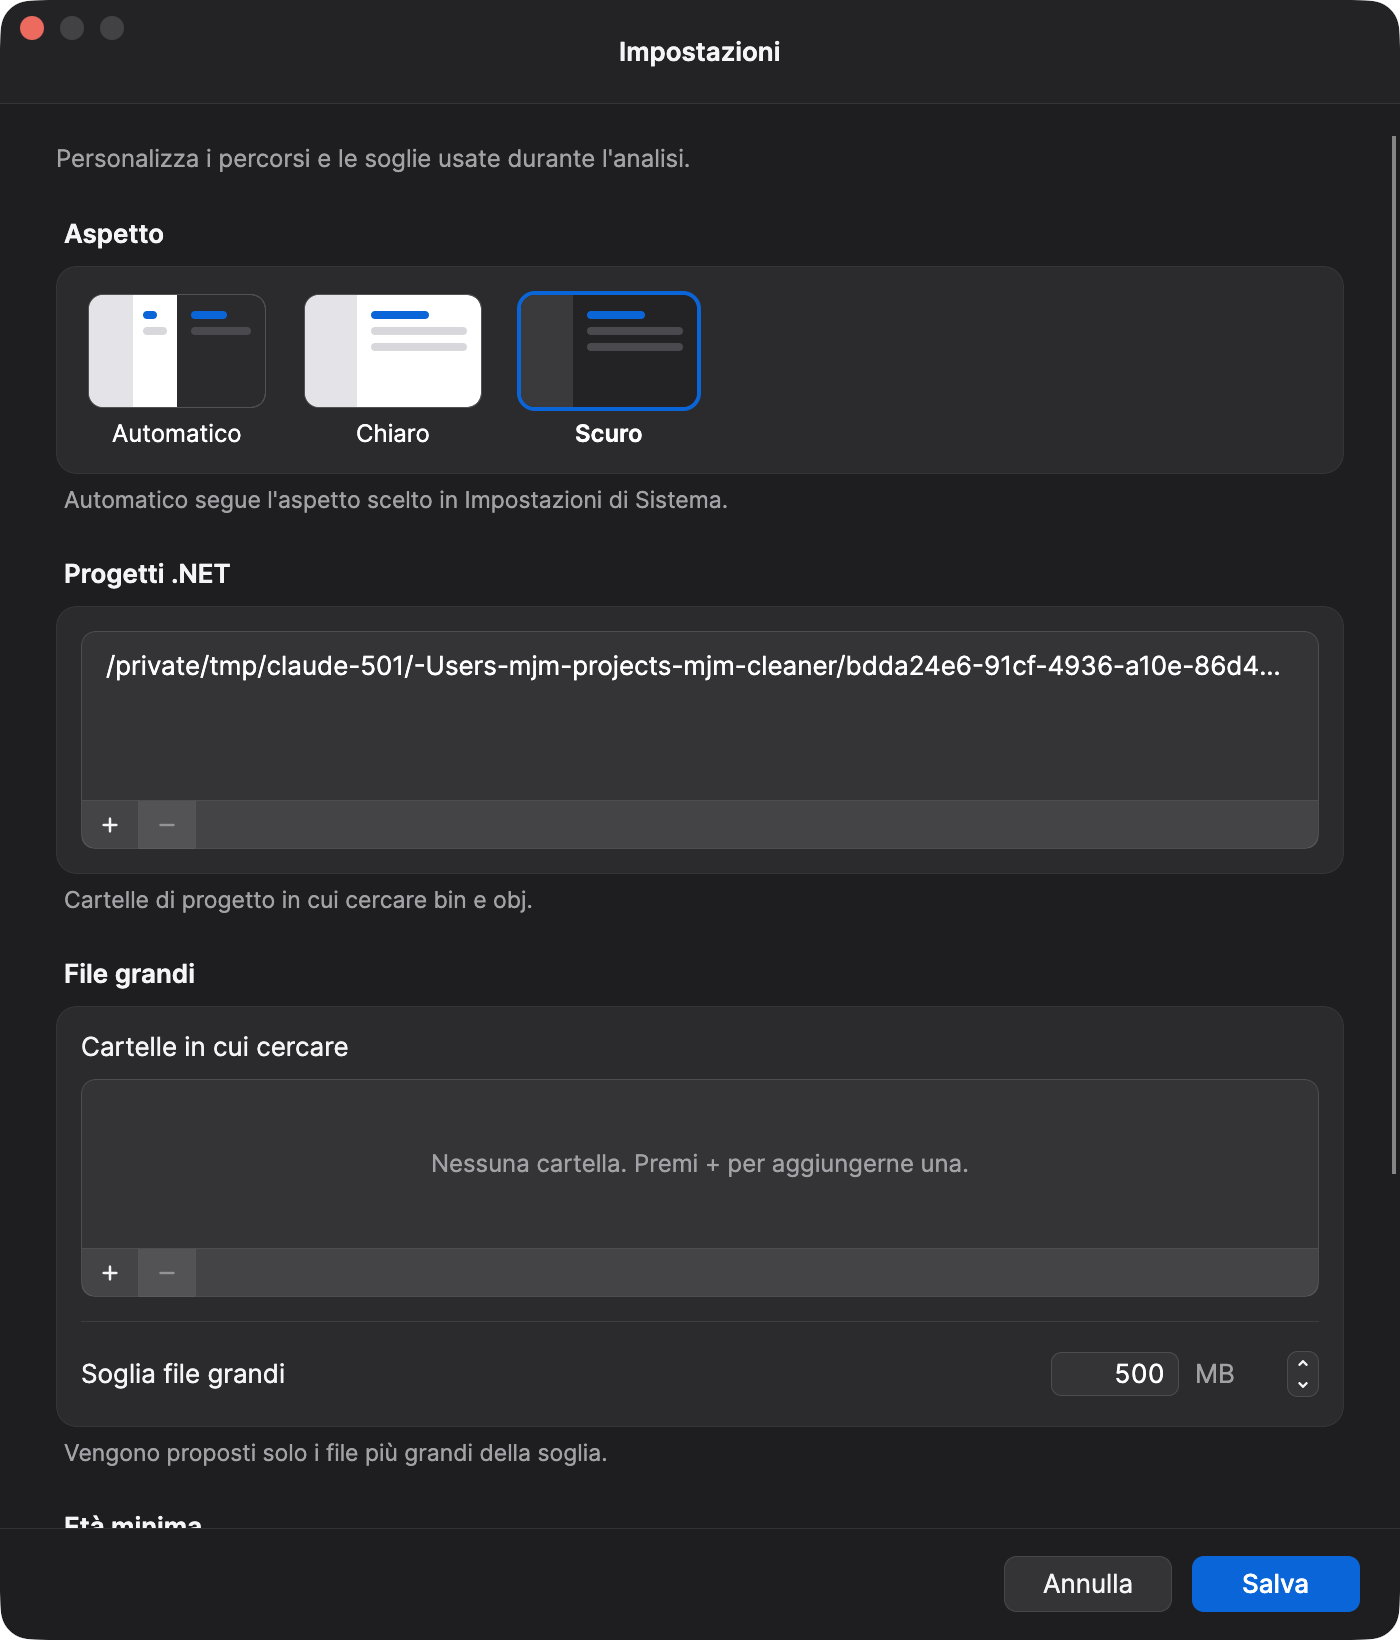
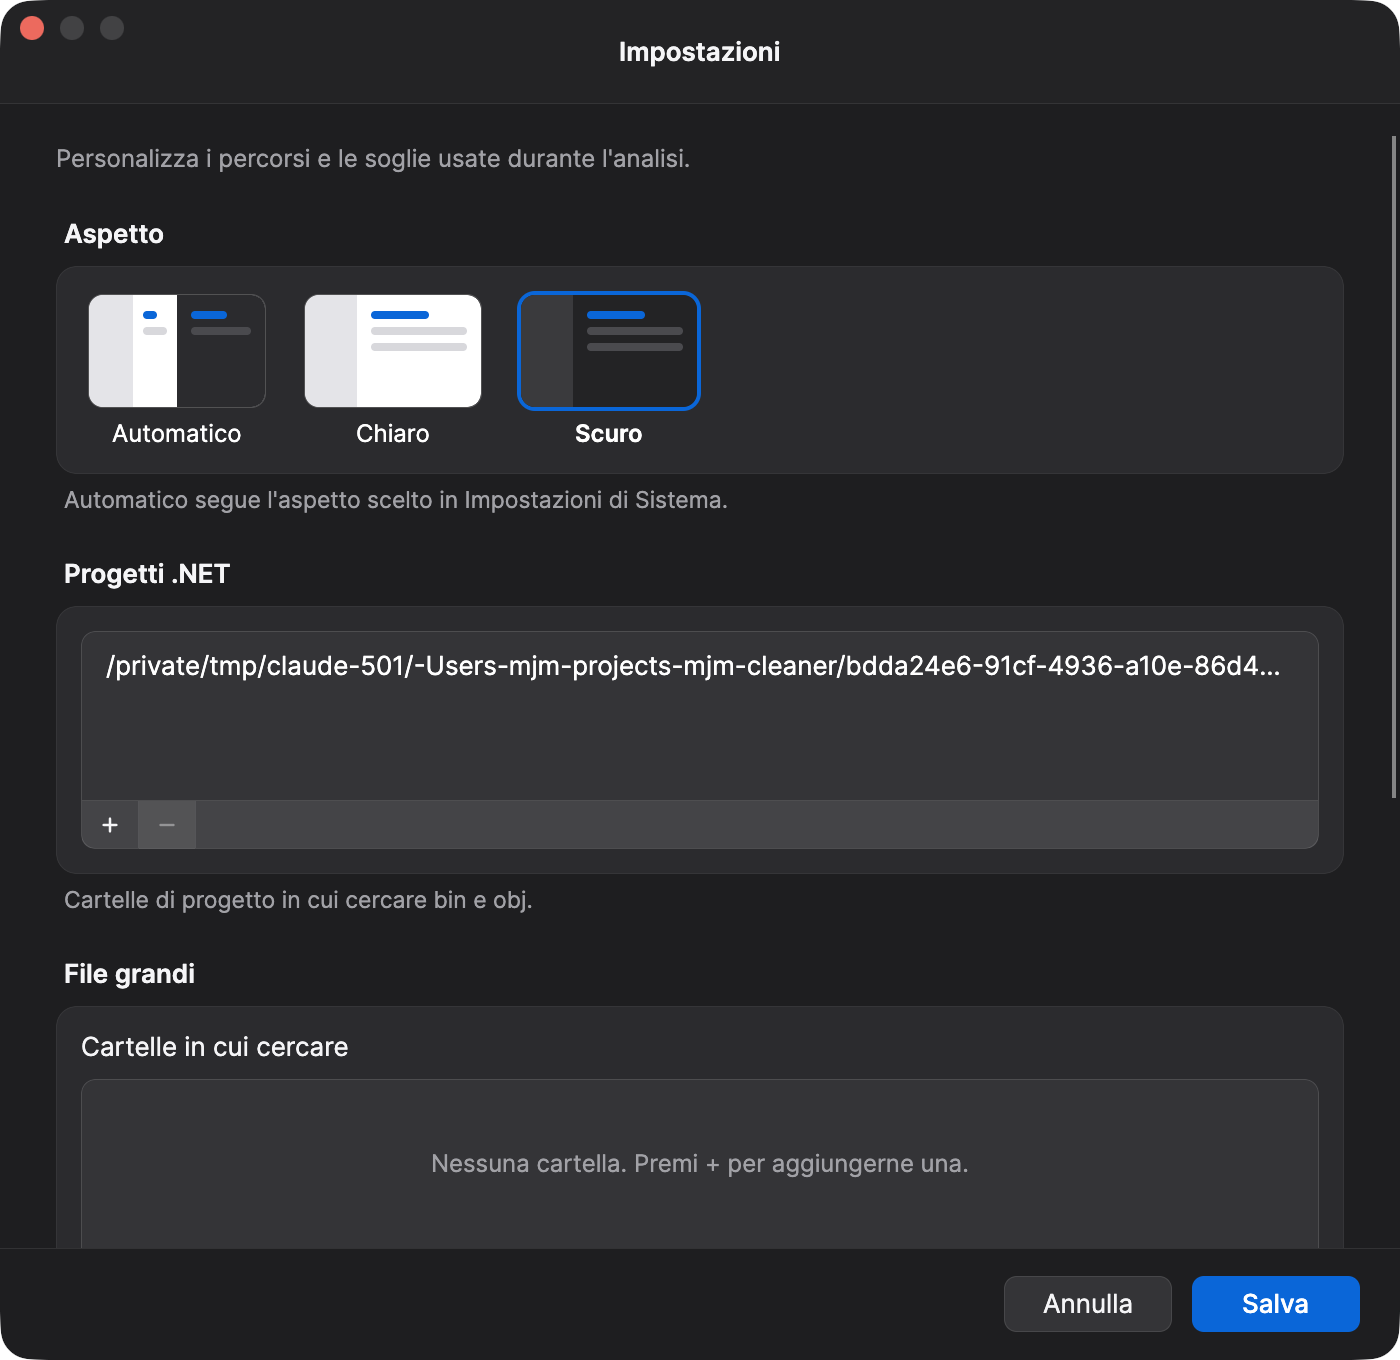
docs(ui): update verification after final review fixes

diff --git a/docs/superpowers/verification/2026-10-02-macos-redesign.md b/docs/superpowers/verification/2026-10-02-macos-redesign.md
@@ -1,6 +1,6 @@
 # Verifica finale — redesign macOS di mjm.cleaner
 
-Data: 2026-10-02 · Branch `feat/macos-redesign` · HEAD di partenza `2fd1917`
+Data: 2026-10-02 · Branch `feat/macos-redesign` · HEAD di partenza `2fd1917`, aggiornato dopo la fix wave finale (`7c9a1f0`, `2f640ab`)
 Riferimenti: [spec](../specs/2026-10-02-macos-redesign-design.md), handoff UI (§7 criteri di accettazione), canvas «mjm.cleaner — macOS» (board `Main`, `Docker`, `Storico`, `Impostazioni`).
 
 ## Ambito
@@ -10,7 +10,7 @@ Verifica dei criteri di accettazione del §7 dell'handoff dopo le modifiche di T
 ## Come è stata prodotta l'evidenza
 
 - **Build e test**: comandi eseguiti alla radice del repository (sezione seguente).
-- **Screenshot dell'app reale** (non headless): catturati dal controller con `screencapture -x -o -l <windowid>`, quindi **solo la finestra di mjm.cleaner** (nessun desktop, nessuna altra app). PNG Retina 2x: finestra principale 1120×700 pt (2240×1400 px), finestra Impostazioni 700×820 pt (1400×1640 px). Ogni immagine è stata riesaminata prima di essere copiata: tutte mostrano esclusivamente la finestra dell'app.
+- **Screenshot dell'app reale** (non headless): catturati dal controller con `screencapture -x -o -l <windowid>`, quindi **solo la finestra di mjm.cleaner** (nessun desktop, nessuna altra app). PNG Retina 2x: finestra principale 1120×700 pt (2240×1400 px), finestra Impostazioni 700×680 pt (1400×1360 px; il contenuto scorre, la barra azioni resta visibile). Ogni immagine è stata riesaminata prima di essere copiata: tutte mostrano esclusivamente la finestra dell'app.
 - **Screenshot headless (Step 3 del brief)**: non necessari, perché la cattura delle finestre reali è stata possibile; nessun progetto di cattura headless è stato usato.
 - **Isolamento dei dati**: l'app è stata avviata con `HOME` puntato a una home finta in scratch (due copie, con `Appearance` = `Light` e `Dark` in `settings.json`), così le impostazioni reali dell'utente non sono mai state toccate; confronto con il backup dopo ogni esecuzione sulla home reale: identico. Il database dello Storico è una copia di quello reale (1 sessione reale).
 - **Flusso reale su dati fittizi**: nella home finta un progetto demo (`demo-projects/Demo.Api/Demo.Api.csproj` con `bin`/`obj` fittizi); selezionata solo «Cartelle bin e obj nei progetti». Eseguito Scegli → Analizza → Conferma → Elimina → Fatto: la cancellazione è rimasta confinata alla scratch (verificato che le cartelle siano sparite). Per questo lo Storico mostra anche la nuova sessione «2 ott 2026, 16:30 · 4,3 MB · Cartelle bin e obj nei progetti · 2» sopra quella reale «26 set 2026, 01:19 · 9,5 GB · Cache utente e di sistema · 2.117» (intestazione «9,5 GB in 2 pulizie»).
@@ -23,13 +23,13 @@ Verifica dei criteri di accettazione del §7 dell'handoff dopo le modifiche di T
 | Comando | Esito |
 |---|---|
 | `export PATH="/usr/local/share/dotnet:$PATH"; dotnet build` e `dotnet build --no-incremental` (radice del repo) | exit 0 — `Build succeeded. 0 Warning(s), 0 Error(s).` — 0 avvisi nuovi |
-| `dotnet test` (radice del repo) | exit 0 — `MjmCleaner.Core.Tests`: 502 superati, 0 falliti, 0 saltati · `MjmCleaner.App.Tests`: 93 superati, 0 falliti, 0 saltati · **totale 595 superati** |
+| `dotnet test` (radice del repo) | exit 0 — `MjmCleaner.Core.Tests`: 518 superati, 0 falliti, 0 saltati · `MjmCleaner.App.Tests`: 108 superati, 0 falliti, 0 saltati · **totale 626 superati** |
 
-(L'ultimo riferimento registrato, `2026-10-02-xcode-cleanup.md`, era 499 Core + 19 App; i totali odierni includono anche i test del redesign e delle modifiche al catalogo successive.)
+(Totali rieseguiti dopo la fix wave finale (`7c9a1f0`, `2f640ab`) con `dotnet build --no-incremental` e `dotnet test`. L'ultimo riferimento registrato, `2026-10-02-xcode-cleanup.md`, era 499 Core + 19 App; i totali odierni includono anche i test del redesign e delle modifiche al catalogo successive.)
 
 ## Screenshot
 
-Tutti in `2026-10-02-macos-redesign/`. Nota: le sessioni dello Storico nei due temi provengono da due esecuzioni distinte (orario 16:30 in chiaro, 16:31 in scuro); in `06-xcode-light` la finestra non era in primo piano (semafori grigi), il contenuto è invariato.
+Tutti in `2026-10-02-macos-redesign/`. Gli screenshot 08 e 09 (4 file) sono stati ricatturati alla dimensione finale 700×680 dopo la fix wave, con stessi tema e contenuto: la finestra ora scorre (08 mostra la parte alta, 09 la parte bassa scorsa fino in fondo); ciascuno è stato riesaminato e mostra solo la finestra «Impostazioni» di mjm.cleaner. Nota: le sessioni dello Storico nei due temi provengono da due esecuzioni distinte (orario 16:30 in chiaro, 16:31 in scuro); in `06-xcode-light` la finestra non era in primo piano (semafori grigi), il contenuto è invariato.
 
 | Schermata | Chiaro | Scuro |
 |---|---|---|
@@ -73,7 +73,7 @@ Differenza: il canvas mostra una sola sessione («in 1 pulizia»); l'app ne most
 
 ### Impostazioni
 
-Corrispondono: finestra modale propria 700×820 con titolo «Impostazioni»; sezioni **Aspetto** (tre riquadri-anteprima Automatico/Chiaro/Scuro con anello sul selezionato e didascalia sotto la card) · **Progetti .NET** · **File grandi** · **Età minima**; didascalie sotto le card; liste cartelle con barra + / − e stato vuoto «Nessuna cartella. Premi + per aggiungerne una.»; stepper compatti con unità («MB», «giorni»); «Annulla» e «Salva» in basso a destra.
+Corrispondono: finestra modale propria 700×680 (il contenuto scorre; l'altezza è limitata all'area utile dello schermo, margine 40 pt, minimo 400 pt) con titolo «Impostazioni»; sezioni **Aspetto** (tre riquadri-anteprima Automatico/Chiaro/Scuro con anello sul selezionato e didascalia sotto la card) · **Progetti .NET** · **File grandi** · **Età minima**; didascalie sotto le card; liste cartelle con barra + / − e stato vuoto «Nessuna cartella. Premi + per aggiungerne una.»; stepper compatti con unità («MB», «giorni»); «Annulla» e «Salva» in basso a destra.
 
 Differenza documentata: **Età minima ha tre righe** (Download · Log · Pacchetti NuGet), non quelle del board (decisione della spec: l'età dei pacchetti NuGet è un'impostazione esistente, con nota sull'euristica).
 
@@ -107,10 +107,11 @@ Differenze, tutte volute dalla spec:
 
 - Test: `MainWindowLayoutTests.ShellHasSidebarAndNoCloseButtons`, `ToolPagesLayoutTests.XcodePageHasToolbarAndNoCloseButton`, `ToolPagesLayoutTests.DockerViewsHaveNoCloseButton`, `HistoryViewTests.HasToolbarAndNoCloseButton`, `MainWindowLayoutTests.WizardViewsHaveToolbarAndActionBar`, `SidebarSectionTests` (`WizardPagesBelongToCleanup`, `ReportsBelongToTheirTool`, `IsWizardPageOnlyForTheFourSteps`).
 - Screenshot: sidebar con Pulizia · Docker · Xcode · Storico in tutte le schermate 01–07.
+- Accessibilità (fix wave): i pulsanti della sidebar e dei passi hanno nomi accessibili, verificati da `AccessibilityTests` (`MainWindowButtonsHaveAccessibleNames`, `ChooseStepButtonsHaveAccessibleNames`, `SettingsWindowButtonsHaveAccessibleNames`).
 
 ### 3. Impostazioni in finestra propria, ⌘, funzionante — soddisfatto
 
-- Test: `SettingsOpeningTests` (`ShowSettingsCommandOpensTheModalSettingsWindow`, `WhileTheWindowIsOpenTheCommandIsDisabled`, `ClickingTheSidebarSettingsButtonOpensTheWindow`, `CommandCommaOpensTheWindow`, `TheApplicationMenuHasTheSettingsItemFromStartup`); `SettingsWindowTests.ShowsTheFourSectionsAndTheEmptyFolderState`.
+- Test: `SettingsOpeningTests` (`ShowSettingsCommandOpensTheModalSettingsWindow`, `WhileTheWindowIsOpenTheCommandIsDisabled`, `ClickingTheSidebarSettingsButtonOpensTheWindow`, `CommandCommaOpensTheWindow`, `TheApplicationMenuHasTheSettingsItemFromStartup`); `SettingsWindowTests.ShowsTheFourSectionsAndTheEmptyFolderState`, `SettingsWindowTests.DefaultHeightFitsA13InchDisplay`, `SettingsWindowTests.HeightIsCappedToTheWorkingAreaOfTheScreen`.
 - Prova manuale sull'app reale: ⌘, (keystroke reale) apre la finestra, Esc la chiude come Annulla; il menu applicazione contiene «Impostazioni…». Screenshot 08/09.
 
 ### 4. Token §2 applicati, chiaro e scuro — soddisfatto
@@ -120,7 +121,7 @@ Differenze, tutte volute dalla spec:
 
 ### 5. Aspetto Automatico/Chiaro/Scuro funzionante e persistente — soddisfatto in parte: verificato all'avvio e per comportamento del framework; cambio dal vivo da provare a mano
 
-- Funzionante e persistente — test: `ThemeTests.PreferenceMapsToThemeVariant`, `ThemeTests.ApplySetsApplicationVariant`; `SettingsViewModelTests` (`PickingAnAppearancePreviewsItImmediately`, `CancelRestoresTheLoadedAppearanceAndCloses`, `ClosingFromTheTitleBarBehavesLikeCancel`, `SavePersistsAppearanceAndFoldersThenReturnsToStart`); `SettingsWindowTests.ClosingTheWindowRestoresTheAppearance`; Core: `SettingsStoreTests` (`AppearanceDefaultsToAuto`, `LegacyFileWithoutAppearanceLoadsAsAuto`, `AppearanceRoundTripsAsReadableString`). L'app reale avviata con `Appearance` = `Light`/`Dark` nel `settings.json` ha reso il tema corretto all'avvio (screenshot 01–09: ogni coppia chiaro/scuro).
+- Funzionante e persistente — test: `ThemeTests.PreferenceMapsToThemeVariant`, `ThemeTests.ApplySetsApplicationVariant`; `SettingsViewModelTests` (`PickingAnAppearancePreviewsItImmediately`, `CancelRestoresTheLoadedAppearanceAndCloses`, `ClosingFromTheTitleBarBehavesLikeCancel`, `SavePersistsAppearanceAndFoldersThenReturnsToStart`); `SettingsWindowTests.ClosingTheWindowRestoresTheAppearance`; Core: `SettingsStoreTests` (`AppearanceDefaultsToAuto`, `LegacyFileWithoutAppearanceLoadsAsAuto`, `AppearanceRoundTripsAsReadableString`, `UnknownAppearanceValueFallsBackToAutoAndKeepsTheOtherSettings`, `AppearanceIsReadCaseInsensitively`, `AppearanceRoundTripsForEveryValue`). Dopo la fix wave la lettura di `Appearance` è **tollerante**: un valore sconosciuto o non stringa (numero intero, booleano, oggetto, array, stringa vuota) ricade su Automatico, senza perdere le altre impostazioni e senza far fallire il caricamento. L'app reale avviata con `Appearance` = `Light`/`Dark` nel `settings.json` ha reso il tema corretto all'avvio (screenshot 01–09: ogni coppia chiaro/scuro).
 - **Automatico segue il sistema**: verificato **all'avvio** (esecuzione sulla home reale in Automatico con macOS in Scuro: app scura) e per **comportamento del framework** (`Auto` imposta `RequestedThemeVariant = Default`, che in Avalonia segue l'impostazione di piattaforma). **Il cambio dal vivo dell'Aspetto di sistema con l'app aperta non è stato eseguito**, perché avrebbe richiesto di modificare l'impostazione di sistema dell'utente: resta da provare a mano (`osascript -e 'tell application "System Events" to tell appearance preferences to set dark mode to not dark mode'`, poi ripristino).
 - Verifica manuale per l'utente (cambio dal vivo): con l'app aperta in Automatico, aprire Impostazioni di Sistema → Aspetto e passare da Chiaro a Scuro e viceversa; la finestra dell'app deve cambiare tema senza riavvio.
 
@@ -131,9 +132,22 @@ Differenze, tutte volute dalla spec:
 
 ### 7. Screenshot di ogni schermata in chiaro e scuro confrontati col canvas — soddisfatto, con i limiti indicati sotto (Docker con dati)
 
-- 18 screenshot dell'app reale (9 schermate × 2 temi) nella tabella sopra; confronto con i board nella sezione precedente; differenze solo per decisioni della spec.
+- 18 screenshot dell'app reale (9 schermate × 2 temi) nella tabella sopra (08 e 09 ricatturati a 700×680 dopo la fix wave); confronto con i board nella sezione precedente; differenze solo per decisioni della spec.
 - Limiti: lo stato **Docker con dati** (gruppi immagini/volumi) non è coperto né da screenshot né da un test di layout con dati (Docker Desktop non era in esecuzione; `DockerViewsHaveNoCloseButton` non renderizza dati). Le sezioni **Xcode** con voci selezionate/anteprima/conferma non sono state fotografate (la pulizia Xcode reale non va eseguita) ma sono coperte da `XcodeViewLayoutTests` (stati popolati e di conferma, anche con 100 dispositivi), `XcodeReportViewModelTests` e `XcodeViewModelTests`.
+
+## Correzioni dopo la review finale
+
+Dopo la scrittura di questo documento è stata applicata una fix wave finale (commit `7c9a1f0` e `2f640ab`). Elenco con i test che la coprono:
+
+- **Nomi accessibili sulla sidebar** (e sui pulsanti di Scegli e Impostazioni): `AccessibilityTests.MainWindowButtonsHaveAccessibleNames`, `AccessibilityTests.ChooseStepButtonsHaveAccessibleNames`, `AccessibilityTests.SettingsWindowButtonsHaveAccessibleNames`.
+- **Altezza della finestra Impostazioni 820 → 680**, limitata all'area utile dello schermo (margine 40 pt, minimo 400 pt); il contenuto scorre e la barra Annulla/Salva resta visibile: `SettingsWindowTests.DefaultHeightFitsA13InchDisplay`, `SettingsWindowTests.HeightIsCappedToTheWorkingAreaOfTheScreen`. Screenshot 08/09 ricatturati a 700×680.
+- **«Analizza» disabilitato con 0 selezioni** e aggiornato al variare dei toggle: `ChooseStepTests.AnalyzeIsDisabledWithoutSelectionAndFollowsTheToggles`.
+- **Blocco della navigazione durante l'eliminazione Xcode** e comando «Pulizia» (`ShowCleanup`): `NavigationLockTests.SidebarCommandsAreDisabledWhileXcodeDeletesAndReenabledAfterwards`, `NavigationLockTests.ShowCleanupLeavesAWizardPageUntouched`, `NavigationLockTests.ShowCleanupFromHistoryReturnsToStepOne`.
+- **Lettura tollerante di `Appearance` in `settings.json`**: valori sconosciuti o interi → Automatico, le altre impostazioni restano: `SettingsStoreTests.UnknownAppearanceValueFallsBackToAutoAndKeepsTheOtherSettings` (più `AppearanceIsReadCaseInsensitively`, `AppearanceRoundTripsForEveryValue`).
+- **Pulizia del tema**: stili morti rimossi, ombre condivise (`BoxShadows`) definite una sola volta, intestazioni di colonna dello Storico con uno stile unico, anello di focus condiviso: `ThemeTests.SharedShadowsAreDefinedOnce`, `ThemeTests.FocusedButtonUsesTheSharedFocusRing`, `HistoryViewTests.ColumnHeadersShareOneStyle`.
+
+Totali verificati dopo la fix wave: `dotnet build --no-incremental` 0 avvisi, 0 errori; `dotnet test` Core 518 superati, App 108 superati, 0 falliti (626 in tutto).
 
 ## Esito
 
-Tutte le voci del §7 sono soddisfatte tranne il cambio dal vivo della voce 5 (da provare a mano). Altre riserve esplicite: Docker con dati non è coperto né da screenshot né da un test di layout con dati; gli stati Xcode in anteprima/conferma non sono fotografati ma sono coperti da `XcodeViewLayoutTests`.
+Tutte le voci del §7 sono soddisfatte (con la tolleranza ai valori errati di `Appearance` e i nomi accessibili aggiunti dalla fix wave) tranne il cambio dal vivo dell'Aspetto di sistema della voce 5, da provare a mano. Altre riserve esplicite: Docker con dati non è coperto né da screenshot né da un test di layout con dati; gli stati Xcode in anteprima/conferma non sono fotografati ma sono coperti da `XcodeViewLayoutTests`.
